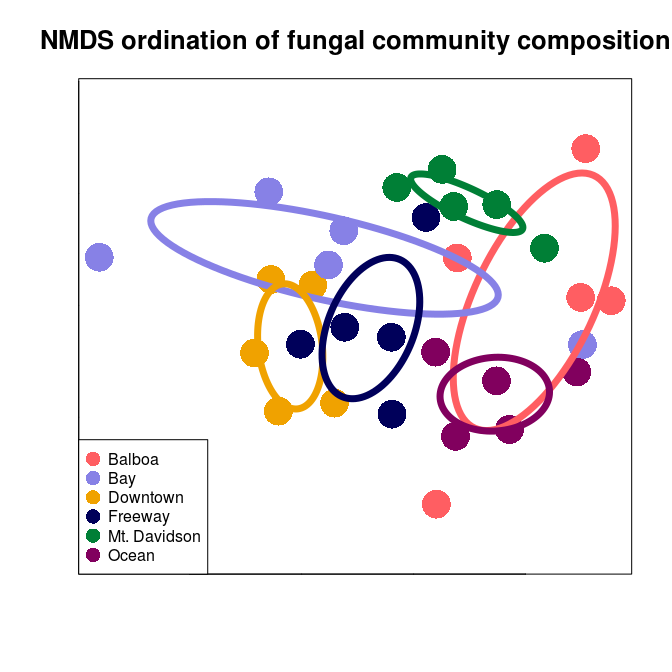
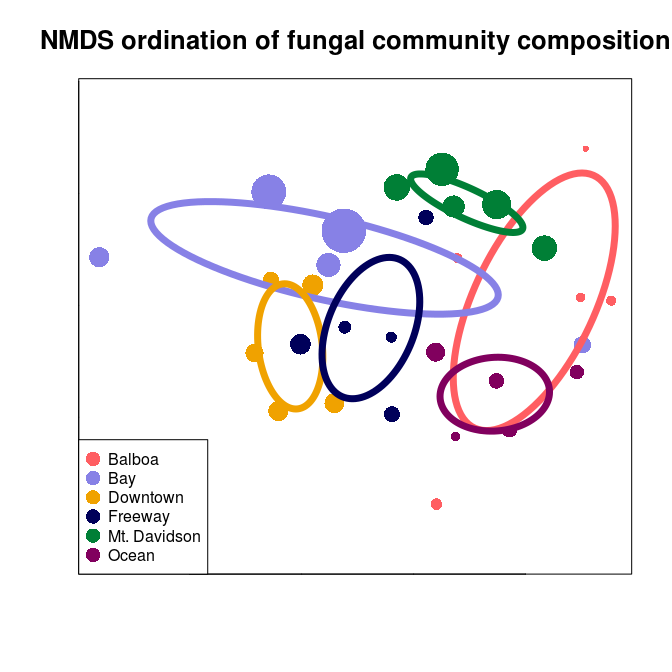
Add code to markdown report

diff --git a/2018-04-17_Report_draft.md b/2018-04-17_Report_draft.md
@@ -3,6 +3,11 @@ Urban biogeography of fungal endophytes across San Francisco
 Emma Gibson and Naupaka Zimmerman
 4/17/2018
 
+``` r
+# load libraries
+library("dplyr")
+```
+
     ## 
     ## Attaching package: 'dplyr'
 
@@ -14,14 +19,53 @@ Emma Gibson and Naupaka Zimmerman
     ## 
     ##     intersect, setdiff, setequal, union
 
+``` r
+library("tidyr")
+library("vegan")
+```
+
     ## Loading required package: permute
 
     ## Loading required package: lattice
 
     ## This is vegan 2.4-6
 
+``` r
+library("ggplot2")
+```
+
+``` r
+# load files
+otus <- read.table("seq_with_OTU_ID.txt")
+groups <- read.table("groupfile.tsv")
+trees <- read.csv("metadata/M_excel_tree_metadata_with_isolationfreq.csv",
+                  stringsAsFactors = FALSE)
+TBAS <- read.csv("metadata/TBAS_taxonomies.csv")
+culturing <- read.csv("metadata/culturing_worksheet.csv")
+extractions <- read.csv("metadata/Extraction_worksheet.csv")
+
+# count by groups instead of trees
+otu_table <- otus %>%
+  left_join(groups, by = c("V1" = "V1")) %>%
+  group_by(V2.x, V2.y) %>%
+  summarize(count = n()) %>%
+  spread(V2.x, count, fill = 0)
+```
+
     ## Warning: Column `V1` joining factors with different levels, coercing to
     ## character vector
+
+``` r
+# get rid of rows with NA
+otu_table <- as.data.frame(na.omit(otu_table))
+
+# fix row name problems for vegan
+row.names(otu_table) <- otu_table[, 1]
+otu_table <- otu_table[, -1]
+
+# drop out USF test sample
+otu_table <- otu_table[1:30,]
+```
 
 Abstract
 ========
@@ -42,6 +86,10 @@ Methods
 
 Culturing Methods
 -----------------
+
+``` r
+#figure out how to embed images
+```
 
 ### Figure 1. Map ofthe locations sampled
 
@@ -72,9 +120,64 @@ Isolation Frequency
 Species richness
 ----------------
 
+``` r
+#set colors
+rare_color = c(rep("#ff5e62", 5),
+               rep("#f0a200", 5),
+               rep("#007f36", 5),
+               rep("#8781e6", 5),
+               rep("#00005a", 5),
+               rep("#81005e", 5))
+
+#rename sites to be more readable
+group_labels <- c(rep("Balboa", 5),
+                  rep("Downtown", 5),
+                  rep("Mt. Davidson", 5),
+                  rep("Bay", 5),
+                  rep("Freeway", 5),
+                  rep("Ocean", 5))
+
+#draw the species richness curves
+rarecurve(otu_table,
+          main = "Species accumulation curves for endophytic fungi",
+          col = rare_color,
+          label = FALSE,
+          lwd = 2,
+          xlab = "Number of fungal isolates",
+          ylab = "Number of fungal species (97% ITS OTUs)")
+
+#add a legend for greater readability
+legend("bottomright",
+       legend = levels(factor(group_labels)),
+       pch = 16,
+       col = c(rep("#ff5e62"),
+               rep("#8781e6"),
+               rep("#f0a200"),
+               rep("#00005a"),
+               rep("#007f36"),
+               rep("#81005e")))
+```
+
 ![](2018-04-17_Report_draft_files/figure-markdown_github/rarefaction-1.png) \#\#\#Figure 3. Rarefaction curve showing species richness in all trees & sites
 
 The species richness curve graphs the number of fungal species (OTUs) found versus the totla number of fungal isolates for each tree's microbiome. Each line represents one tree's community, and the color of the line represents which site each tree was located in. A sharply angled line indicates that the full species diversity has not been samples, and a line that plateaus indicated that most of the species available in that community have been sampled. There were 97 total OTUs found among the 30 different trees. Both isolation frequency and number of fungal species found varies notably between trees.
+
+``` r
+extraction_with_tree <- read.table("groupfile.tsv",
+                                   sep = "\t",
+                                   col.names = c("Extraction_ID", "Tree_ID")) %>%
+  mutate(site_ID = substr(Tree_ID, 1, 2))
+
+TBAS_names_fixed <- TBAS %>%
+  mutate(Extraction_ID = substr(Query_sequence, 1, 8))
+
+TBAS_with_site <- TBAS_names_fixed %>%
+  left_join(extraction_with_tree, by = "Extraction_ID") %>%
+  na.omit()
+```
+
+    ## Warning: Column `Extraction_ID` joining character vector and factor,
+    ## coercing into character vector
 
 ### Figure 4. Prominent Taxa in each site
 
@@ -83,35 +186,62 @@ The most prominent
 NMDS Ordination
 ---------------
 
+``` r
+ord_obj <- metaMDS(otu_table)
+```
+
     ## Wisconsin double standardization
     ## Run 0 stress 0.2365893 
-    ## Run 1 stress 0.2474907 
-    ## Run 2 stress 0.2485377 
-    ## Run 3 stress 0.2530347 
-    ## Run 4 stress 0.2427621 
-    ## Run 5 stress 0.2370408 
-    ## ... Procrustes: rmse 0.03129049  max resid 0.09728397 
-    ## Run 6 stress 0.236744 
-    ## ... Procrustes: rmse 0.02588129  max resid 0.09840443 
-    ## Run 7 stress 0.2509126 
-    ## Run 8 stress 0.243723 
-    ## Run 9 stress 0.2367419 
-    ## ... Procrustes: rmse 0.0378051  max resid 0.1023503 
-    ## Run 10 stress 0.2370112 
-    ## ... Procrustes: rmse 0.027342  max resid 0.07687523 
-    ## Run 11 stress 0.2455069 
-    ## Run 12 stress 0.2533399 
-    ## Run 13 stress 0.2408622 
-    ## Run 14 stress 0.2498453 
-    ## Run 15 stress 0.2453633 
-    ## Run 16 stress 0.2606699 
-    ## Run 17 stress 0.2367418 
-    ## ... Procrustes: rmse 0.03781377  max resid 0.1021535 
-    ## Run 18 stress 0.2417353 
-    ## Run 19 stress 0.2522434 
-    ## Run 20 stress 0.2507039 
-    ## *** No convergence -- monoMDS stopping criteria:
-    ##     20: stress ratio > sratmax
+    ## Run 1 stress 0.2366079 
+    ## ... Procrustes: rmse 0.04123009  max resid 0.105673 
+    ## Run 2 stress 0.2575533 
+    ## Run 3 stress 0.2365904 
+    ## ... Procrustes: rmse 0.001521073  max resid 0.004787468 
+    ## ... Similar to previous best
+    ## Run 4 stress 0.2489858 
+    ## Run 5 stress 0.240694 
+    ## Run 6 stress 0.245747 
+    ## Run 7 stress 0.236612 
+    ## ... Procrustes: rmse 0.04121139  max resid 0.1041449 
+    ## Run 8 stress 0.2367419 
+    ## ... Procrustes: rmse 0.03782502  max resid 0.101851 
+    ## Run 9 stress 0.2466173 
+    ## Run 10 stress 0.2368153 
+    ## ... Procrustes: rmse 0.01772226  max resid 0.07546903 
+    ## Run 11 stress 0.2523475 
+    ## Run 12 stress 0.2387748 
+    ## Run 13 stress 0.2465185 
+    ## Run 14 stress 0.2369467 
+    ## ... Procrustes: rmse 0.03673694  max resid 0.1016372 
+    ## Run 15 stress 0.24167 
+    ## Run 16 stress 0.242381 
+    ## Run 17 stress 0.2527246 
+    ## Run 18 stress 0.2398427 
+    ## Run 19 stress 0.2387746 
+    ## Run 20 stress 0.2537874 
+    ## *** Solution reached
+
+``` r
+# fix row names to be more readable
+row.names(otu_table) <- c(paste("Balboa - Tree", 1:5),
+                         paste("Downtown - Tree", 1:5),
+                         paste("Mt. Davidson - Tree", 1:5),
+                         paste("Bay - Tree", 1:5),
+                         paste("Freeway - Tree", 1:5),
+                         paste("Ocean - Tree", 1:5))
+
+trees_aug <- subset(trees, as.POSIXct(trees$Date_sampled) > as.POSIXct("2017-08-01"))
+
+plot(ord_obj,
+     display = "sites",
+     type = "n",
+     main = "NMDS ordination of fungal community composition",
+     cex.main = 1.6,
+     xlab = "",
+     ylab = "",
+     tck = 0,
+     labels = FALSE)
+```
 
     ## Warning in plot.window(...): "labels" is not a graphical parameter
 
@@ -121,16 +251,58 @@ NMDS Ordination
 
     ## Warning in title(...): "labels" is not a graphical parameter
 
+``` r
+points(ord_obj,
+       display = "sites",
+       col = c(rep("#ff5e62", 5),
+               rep("#f0a200", 5),
+               rep("#007f36", 5),
+               rep("#8781e6", 5),
+               rep("#00005a", 5),
+               rep("#81005e", 5)),
+       cex = trees_aug$DBH_cm/10,
+       pch = 16)
+
+legend("bottomleft",
+       legend = levels(factor(group_labels)),
+       pch = 16,
+       cex = 1,
+       pt.cex = 2,
+       col = c(rep("#ff5e62"),
+               rep("#8781e6"),
+               rep("#f0a200"),
+               rep("#00005a"),
+               rep("#007f36"),
+               rep("#81005e")))
+
+ordiellipse(ord_obj,
+            groups =group_labels,
+            label = FALSE,
+            col = c(rep("#ff5e62"),
+                    rep("#8781e6"),
+                    rep("#f0a200"),
+                    rep("#00005a"),
+                    rep("#007f36"),
+                    rep("#81005e")),
+            lwd = 7)
+```
+
 ![](2018-04-17_Report_draft_files/figure-markdown_github/ordination-1.png)
 
 ### Figure 5. NMDS ordination of community composition
 
-A non-metric multidimensional scaling (NMDS) ordination graphs the microbial communities of each tree by compositional similarity using the DNA sequences from each tree. Each point represents the endophytic community of one tree, and the color of said point corresponds to the site that tree is from. The ellipses show the standard error around the centroid of all points within a site, and are also color-coded according to which site they represent.
+A non-metric multidimensional scaling (NMDS) ordination graphs the microbial communities of each tree by compositional similarity using the DNA sequences from each tree. Each point represents the endophytic community of one tree, and the size of the point corresponds to that tree's diameter at breast height (DBH), while the color of said point corresponds to the site that tree is from. The ellipses show the standard error around the centroid of all points within a site, and are also color-coded according to which site they represent.
 
 Discussion
 ==========
 
-words
+The major, overarching takeaway from this study is that the urban endophytic microbiome contains a great amount of diversity and should not be overlooked. Even in the small geographic area of San Francisco, we found notable trends in microbiome composition that appear to vary with uniquely urban environmental factors, such as traffic.
+
+The NMDS ordination indicates that urban environmental factors play a considerable role in shaping the endophytic communities of these trees. Some of the NMDS groupings can be explained by geographic proximity, like the Ocean and Balboa sites. However, the proximity of the Downtown and Freeway sites indicate that there may be common environmental factors impacting community composition, such as traffic and pollution.
+
+The isolation frequency varied greatly from one site to the other, and while some sites showed similar isolation frequencies across all trees, others had a wide variety of
+
+The Bay site shows the greatest diversity in fungal communities on the NMDS ordination, as well as a large difference in isolation frequency and DBH. Although this could be due to the climate of the bay, we believe that it is more likely due to the age of the trees. The two trees with vastly different communities are also the smalles, and therefore likely youngest, trees (Figure 5).Younger trees have been exposed to less endophytes, This conclusion is further supported by the fact that the Mt. Davidson site, which has the most tightly-clustered communities (Figure 5), also has fairly large trees with similar DBH.
 
 Sources Cited
 =============
